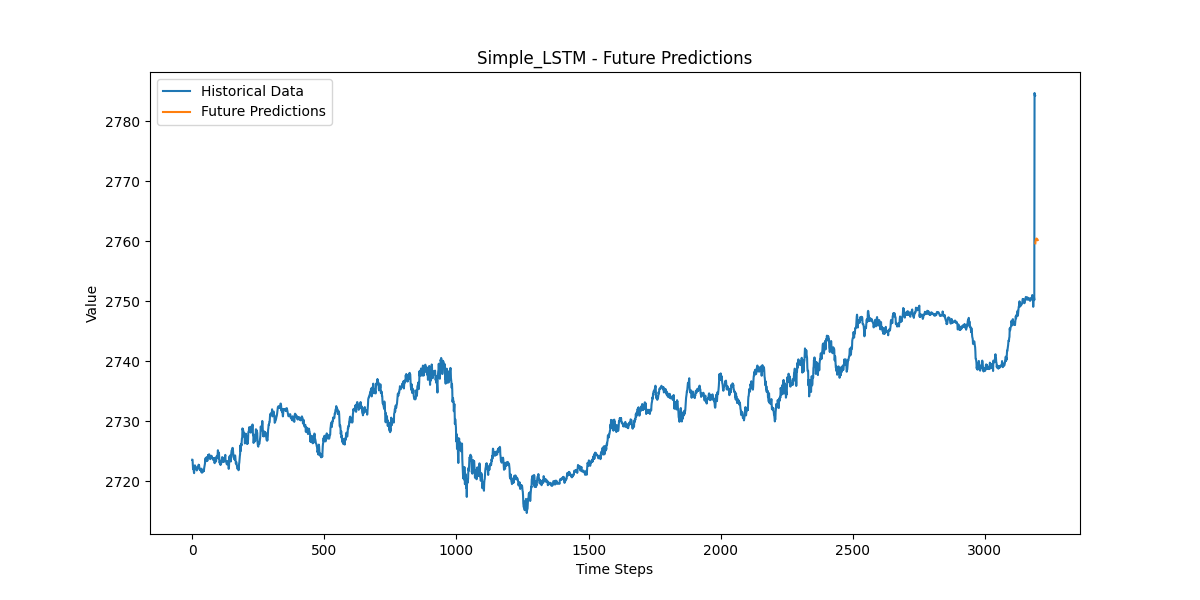
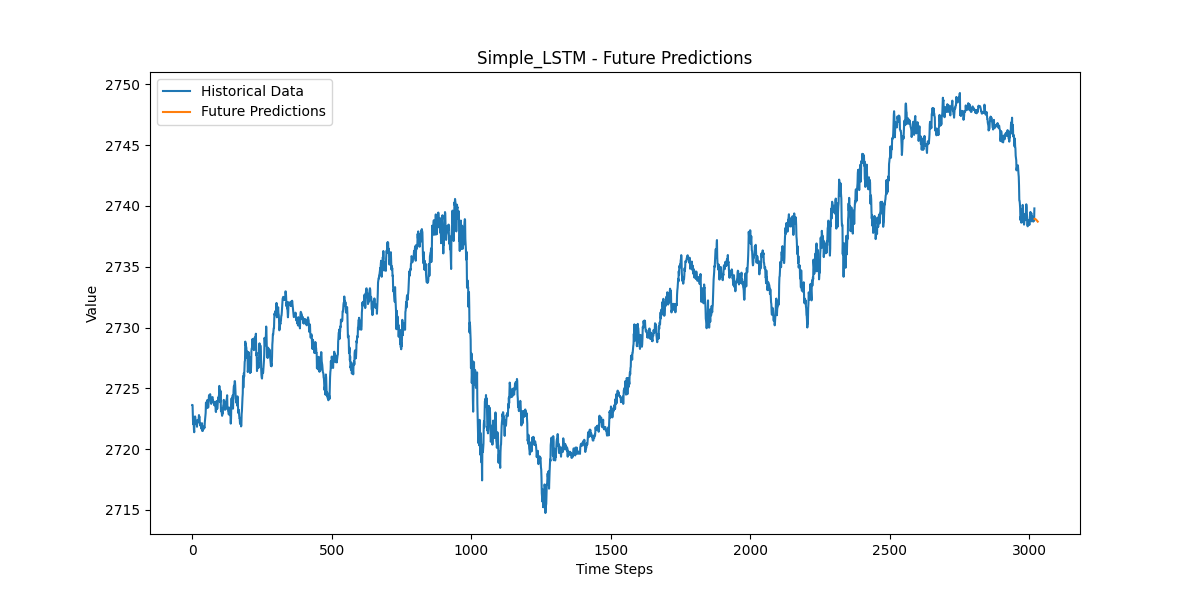
This code is designed for time series prediction, accommodating both univariate and multivariate data. The process begins with essential preprocessing steps, including normalization, outlier removal, the application of first-order differentials, and feature extraction in both the time and frequency 
Subsequently, the model employs a hybrid LSTM-attention mechanism as the deep learning architecture for predictions. In the evaluation section, several metrics are utilized to assess the model's performance from various perspectives. Finally, the code enables future forecasting, allowing for predictions based on existing data or new datasets.

diff --git a/TimeSeriesPrediction.py b/TimeSeriesPrediction.py
@@ -3,8 +3,12 @@ import numpy as np
 import os
 import datetime
 import matplotlib.pyplot as plt
+import matplotlib
+matplotlib.use('TkAgg')
 from scipy.fft import fft
 from scipy.stats import skew, kurtosis, iqr, entropy
+from tqdm import tqdm
+
 
 from sklearn.metrics import mean_squared_error, mean_absolute_error, r2_score, mean_absolute_percentage_error
 from sklearn.model_selection import train_test_split, TimeSeriesSplit
@@ -12,8 +16,12 @@ from sklearn.preprocessing import MinMaxScaler, StandardScaler, RobustScaler
 from sklearn.impute import KNNImputer
 from sklearn.ensemble import IsolationForest
 import tensorflow as tf
+
+
+
+
 from tensorflow.keras.models import Sequential, Model, load_model
-from tensorflow.keras.layers import BatchNormalization, Dense, LSTM, Dropout, Input, Flatten
+from tensorflow.keras.layers import BatchNormalization, Dense, LSTM, Dropout, Input, Flatten, Conv1D, LayerNormalization, Add
 from tensorflow.keras.layers import Attention, LayerNormalization, MultiHeadAttention, Reshape
 from tensorflow.keras.callbacks import EarlyStopping, ReduceLROnPlateau
 from tensorflow.keras.optimizers import Adam
@@ -58,7 +66,7 @@ def plot_outliers(data, mask, method):
     plt.xlabel('Index')
     plt.ylabel('Value')
     plt.legend()
-    plt.show()
+    plt.show(block=True)
 
 
 def remove_outliers(data, method='zscore', z_thresh=3.0, is_plot=True):
@@ -110,7 +118,8 @@ def compute_difference(data,is_plot = True):
         axs[1].set_xlabel('Index')
         # Show the plot
         plt.tight_layout()
-        plt.show()
+        plt.show(block=True)
+ 
 
     return diff_data
 
@@ -182,7 +191,7 @@ def create_windows(data, params):
     initial_values = []
     window_size = params['window_size']
     num_features = data.shape[1]
-    for i in range(len(data) - window_size):
+    for i in tqdm(range(len(data) - window_size), desc="Processing windows"):
         window = data[i:(i + window_size), :]
         if params.get('use_difference', False):
             # When using differences, target is the difference between next value and last value in the window
@@ -227,23 +236,39 @@ def build_simple_attention_model(input_shape,target_shape, units=64, dropout_rat
     model.compile(optimizer=Adam(learning_rate=0.001), loss='mse')
     return model
 
-def build_sophisticated_attention_model(input_shape,target_shape, num_heads=4, dff=128, dropout_rate=0.1):
+
+
+
+def build_hybrid_cnn_attention_model(input_shape, target_shape, num_heads=4, dff=128, cnn_filters=64, kernel_size=3,
+                                     dropout_rate=0.1):
     inputs = Input(shape=(input_shape[0], 1))
-    # Multi-Head Attention
-    attn_output = MultiHeadAttention(num_heads=num_heads, key_dim=1)(inputs, inputs)
+
+    # Convolutional Block
+    cnn_output = Conv1D(filters=cnn_filters, kernel_size=kernel_size, activation='relu', padding='same')(inputs)
+    cnn_output = Conv1D(filters=cnn_filters, kernel_size=kernel_size, activation='relu', padding='same')(cnn_output)
+    cnn_output = Dropout(dropout_rate)(cnn_output)
+
+    # Multi-Head Attention Block
+    attn_output = MultiHeadAttention(num_heads=num_heads, key_dim=cnn_filters)(cnn_output, cnn_output)
     attn_output = Dropout(dropout_rate)(attn_output)
-    out1 = LayerNormalization(epsilon=1e-6)(inputs + attn_output)
+    attn_output = LayerNormalization(epsilon=1e-6)(Add()([cnn_output, attn_output]))  # Skip connection
+
     # Feed Forward Network
-    ffn_output = Dense(dff, activation='relu')(out1)
-    ffn_output = Dense(1)(ffn_output)
+    ffn_output = Dense(dff, activation='relu')(attn_output)
+    ffn_output = Dense(cnn_filters)(ffn_output)
     ffn_output = Dropout(dropout_rate)(ffn_output)
-    out2 = LayerNormalization(epsilon=1e-6)(out1 + ffn_output)
+    ffn_output = LayerNormalization(epsilon=1e-6)(Add()([attn_output, ffn_output]))  # Skip connection
+
     # Flatten and Output
-    flat = Flatten()(out2)
+    flat = Flatten()(ffn_output)
     outputs = Dense(target_shape[-1])(flat)
+
+    # Model Compilation
     model = Model(inputs=inputs, outputs=outputs)
     model.compile(optimizer=Adam(learning_rate=0.001), loss='mse')
+
     return model
+
 
 def evaluate_model(model, X_train, y_train, X_test, y_test, model_name, params, scaler=None, initial_values_train=None, initial_values_test=None):
     y_train_pred = model.predict(X_train)
@@ -316,7 +341,7 @@ def evaluate_model(model, X_train, y_train, X_test, y_test, model_name, params, 
     plt.ylabel('Value')
     plt.legend()
     plt.savefig(os.path.join(results_dir, f"{model_name}_prediction_plot_{date_time}.png"))
-    plt.show()
+    plt.show(block=True)
 
     return results, model_file, params_file
 
@@ -329,7 +354,7 @@ def plot_training_history(history, model_name):
     plt.xlabel('Epochs')
     plt.ylabel('Loss')
     plt.legend()
-    plt.show()
+    plt.show(block=True)
 
 
 def future_prediction(model, data, original_data, params, scaler=None):
@@ -353,36 +378,73 @@ def future_prediction(model, data, original_data, params, scaler=None):
         input_seq_reshaped = combined_features.reshape((1, -1))
         pred = model.predict(input_seq_reshaped)
 
-        if params.get('use_difference', False):
-            if scaler is not None:
-                # De-normalize the predicted difference
-                pred_denorm = scaler.inverse_transform(pred)
-                # Add to the last actual value to get the real prediction
-                actual_pred = last_actual_value + pred_denorm
-                # Update last actual value for next iteration
-                last_actual_value = actual_pred
-                # Normalize back for the sliding window
-                new_input = scaler.transform(actual_pred)
-            else:
-                # If no scaler, just add the predicted difference
-                actual_pred = last_actual_value + pred
-                last_actual_value = actual_pred
-                new_input = actual_pred
+        # if params.get('use_difference', False):
 
-            predictions.append(actual_pred[0])
+            # if scaler is not None:
+            #     # De-normalize the predicted difference
+            #     pred_denorm = scaler.inverse_transform(pred)
+            #     # Add to the last actual value to get the real prediction
+            #     actual_pred = last_actual_value + pred_denorm
+            #     # Update last actual value for next iteration
+            #     last_actual_value = actual_pred
+            #     # Normalize back for the sliding window
+            #     new_input = scaler.transform(actual_pred)
+            # else:
+            #     # If no scaler, just add the predicted difference
+            #     actual_pred = last_actual_value + pred
+            #     last_actual_value = actual_pred
+            #     new_input = actual_pred
+            #
+            # predictions.append(actual_pred[0])
+        # else:
+        # For non-differenced data
+        if scaler is not None:
+            pred_denorm = scaler.inverse_transform(pred)
+            predictions.append(pred_denorm[0])
+            new_input = pred  # Keep normalized for sliding window
         else:
-            # For non-differenced data
-            if scaler is not None:
-                pred_denorm = scaler.inverse_transform(pred)
-                predictions.append(pred_denorm[0])
-                new_input = pred  # Keep normalized for sliding window
-            else:
-                predictions.append(pred[0])
-                new_input = pred
+            predictions.append(pred[0])
+            new_input = pred
 
         input_seq = np.vstack((input_seq[1:], new_input))
 
-    return np.array(predictions)
+
+    predictions = np.array(predictions)
+
+    # new ------------
+    if params.get('use_difference', False):
+        predictions = de_difference(predictions, last_actual_value)
+     # if scaler is not None:
+    #     # De-normalize the predicted difference
+    #     pred_denorm = scaler.inverse_transform(pred)
+    #     # Add to the last actual value to get the real prediction
+    #     actual_pred = last_actual_value + pred_denorm
+    #     # Update last actual value for next iteration
+    #     last_actual_value = actual_pred
+    #     # Normalize back for the sliding window
+    #     new_input = scaler.transform(actual_pred)
+    # else:
+    #     # If no scaler, just add the predicted difference
+    #     actual_pred = last_actual_value + pred
+    #     last_actual_value = actual_pred
+    #     new_input = actual_pred
+    #
+    # predictions.append(actual_pred[0])
+
+    # ----------------
+
+
+    # ----- plot the future forecast
+    plt.figure(figsize=(12, 6))
+    plt.plot(range(len(original_data)), original_data, label='Historical Data')
+    plt.plot(range(len(original_data), len(original_data) + len(predictions)), predictions, label='Future Predictions')
+    plt.title(f' - Future Predictions')
+    plt.xlabel('Time Steps')
+    plt.ylabel('Value')
+    plt.legend()
+    plt.savefig(os.path.join('results', f"_future_prediction.png"))
+    plt.show(block=True)
+    return predictions
 
 def future_prediction_with_new_data(model_path, params_path, data_path):
     # Load model and parameters
@@ -440,14 +502,14 @@ def plot_train_test_split(data, train_indices, test_indices):
     plt.xlabel('Time Steps')
     plt.ylabel('Value')
     plt.legend()
-    plt.show()
+    plt.show(block=True)
 
 def main():
     # Parameters (can be set as needed)
     params = {
         'file_path': 'data_xauusd_2.csv',  # Path to your main training data CSV file
-        'window_size': 30,
-        'normalization_method': 'minmax',  # Options: 'minmax', 'standard', 'robust', None
+        'window_size': 600,
+        'normalization_method': 'None',  # Options: 'minmax', 'standard', 'robust', None
         'imputation_method': 'knn',  # Options: 'mean', 'median', 'knn', None
         'imputation_neighbors': 5,  # Number of neighbors for KNN imputation
         'outlier_removal': False,
@@ -456,11 +518,11 @@ def main():
         'time_domain_features': True,
         'frequency_domain_features': True,
         'use_original': True,  # Whether to use the original data as features
-        'use_difference': False,  # Whether to use the difference of data instead of original data
-        'epochs': 20,
-        'batch_size': 64,
+        'use_difference': True,  # Whether to use the difference of data instead of original data.first-order differencing
+        'epochs': 10,
+        'batch_size': 32,
         'patience': 30,
-        'horizon': 10,
+        'horizon': 45,
         'retrain': True,  # Set to True to retrain saved model
         'model_path': None,  # Path to saved model (if retrain is False)
         'params_path': None,  # Path to saved parameters (if retrain is False)
@@ -535,7 +597,7 @@ def main():
     # 'Simple_Sophisticated_Attention': build_sophisticated_attention_model,
 
     models = {
-        'Simple_LSTM': build_lstm_model,
+        'Simple_Sophisticated_Attention': build_hybrid_cnn_attention_model,
     }
 
     trained_models = {}
@@ -567,23 +629,7 @@ def main():
         # Future prediction using the same data
         predictions = future_prediction(model, data, original_data, params, scaler)
 
-        # # De-normalize predictions if scaler is provided
-        # if scaler is not None:
-        #     pass  # Predictions are already de-normalized in future_prediction
-        #     original_data = scaler.inverse_transform(data)
-        # else:
-        #     original_data = data
 
-        # Plot future predictions
-        plt.figure(figsize=(12,6))
-        plt.plot(range(len(original_data)), original_data, label='Historical Data')
-        plt.plot(range(len(original_data), len(original_data)+len(predictions)), predictions, label='Future Predictions')
-        plt.title(f'{model_name} - Future Predictions')
-        plt.xlabel('Time Steps')
-        plt.ylabel('Value')
-        plt.legend()
-        plt.savefig(os.path.join('results', f"{model_name}_future_prediction.png"))
-        plt.show()
 
     return
     # Future prediction with new data
